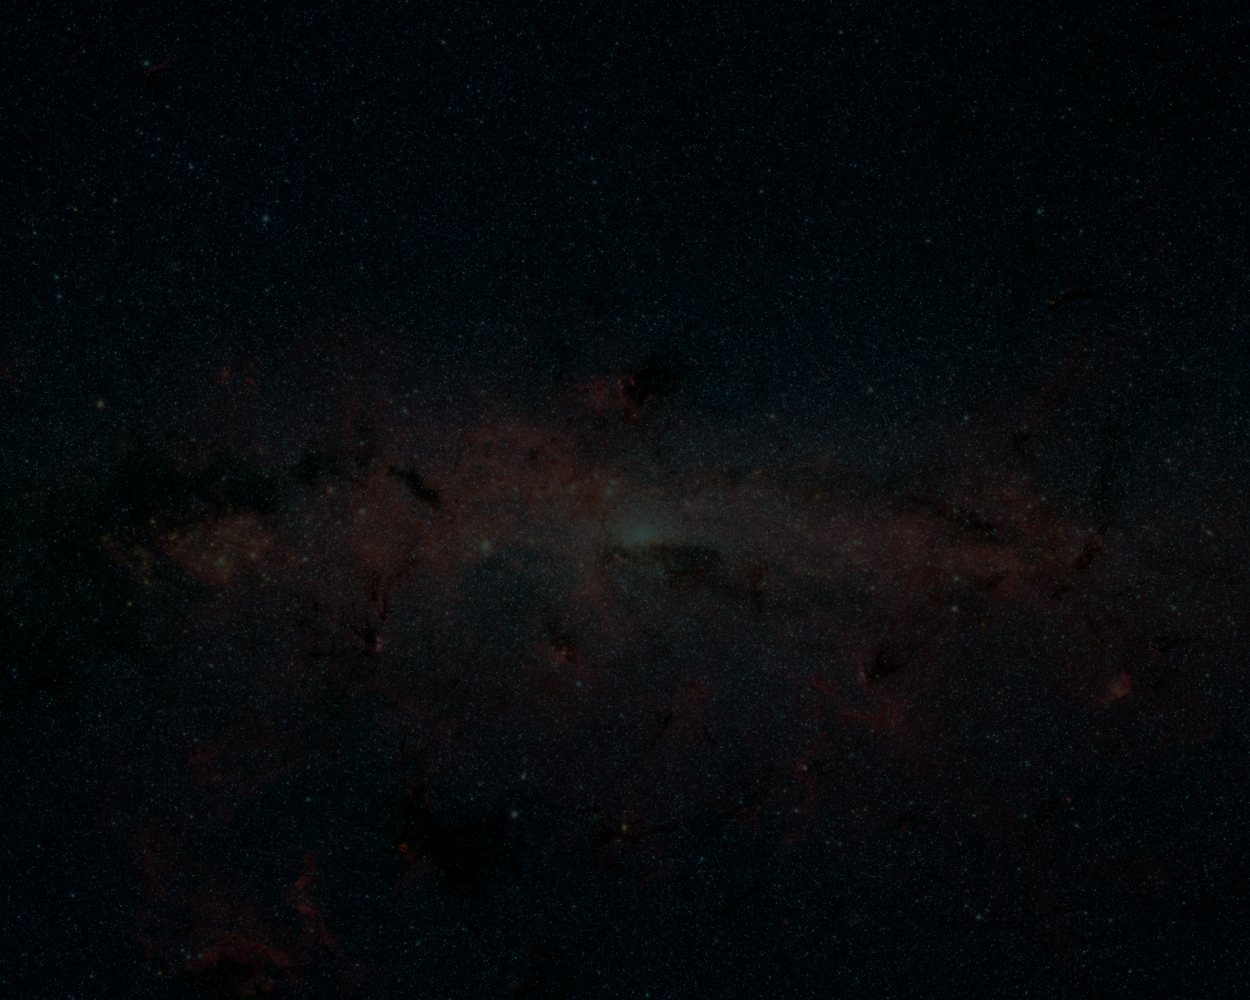
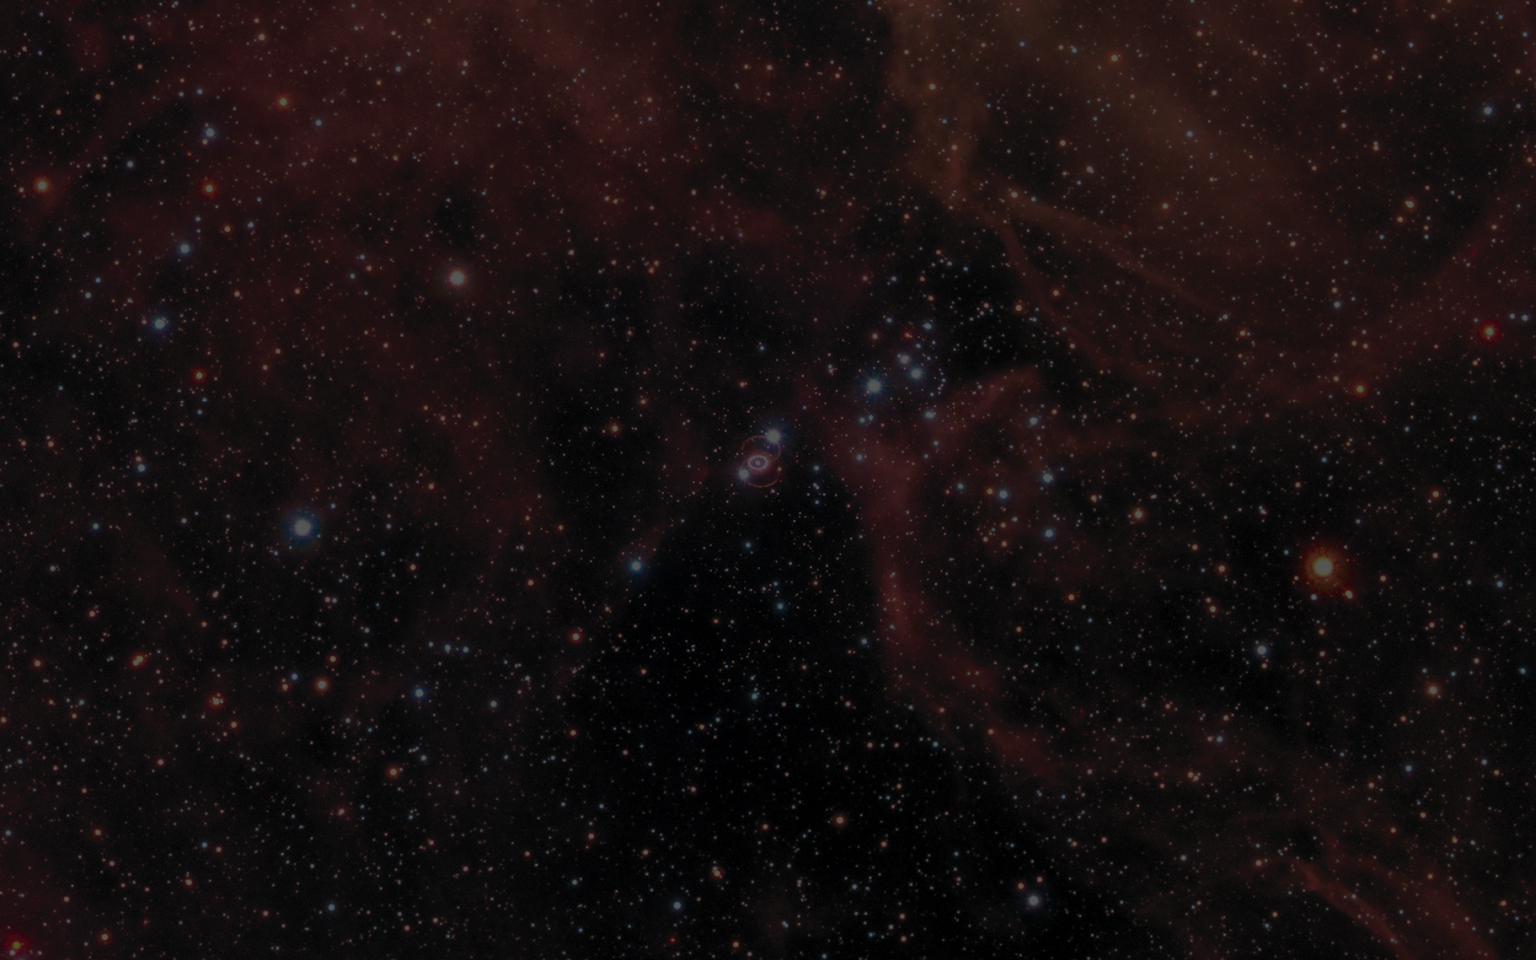
Resized screen and centered game window.

diff --git a/src/UI/UIButton.py b/src/UI/UIButton.py
@@ -45,8 +45,8 @@ class ToggleButton(Button):
         self.is_on = initial_state
         self.active_color = (*active_color, 255) if len(active_color) == 3 else active_color
 
-        self.switch_width = int(0.02 * Const.SCREEN_WIDTH)
-        self.switch_height = int(0.02 * Const.SCREEN_WIDTH)
+        self.switch_width = int(0.025 * Const.SCREEN_HEIGHT)
+        self.switch_height = int(0.025 * Const.SCREEN_HEIGHT)
         self.switch_rect = pygame.Rect(
             self.rect.right - self.switch_width - int(0.005 * Const.SCREEN_WIDTH),
             self.rect.y + int(0.005 * Const.SCREEN_WIDTH),